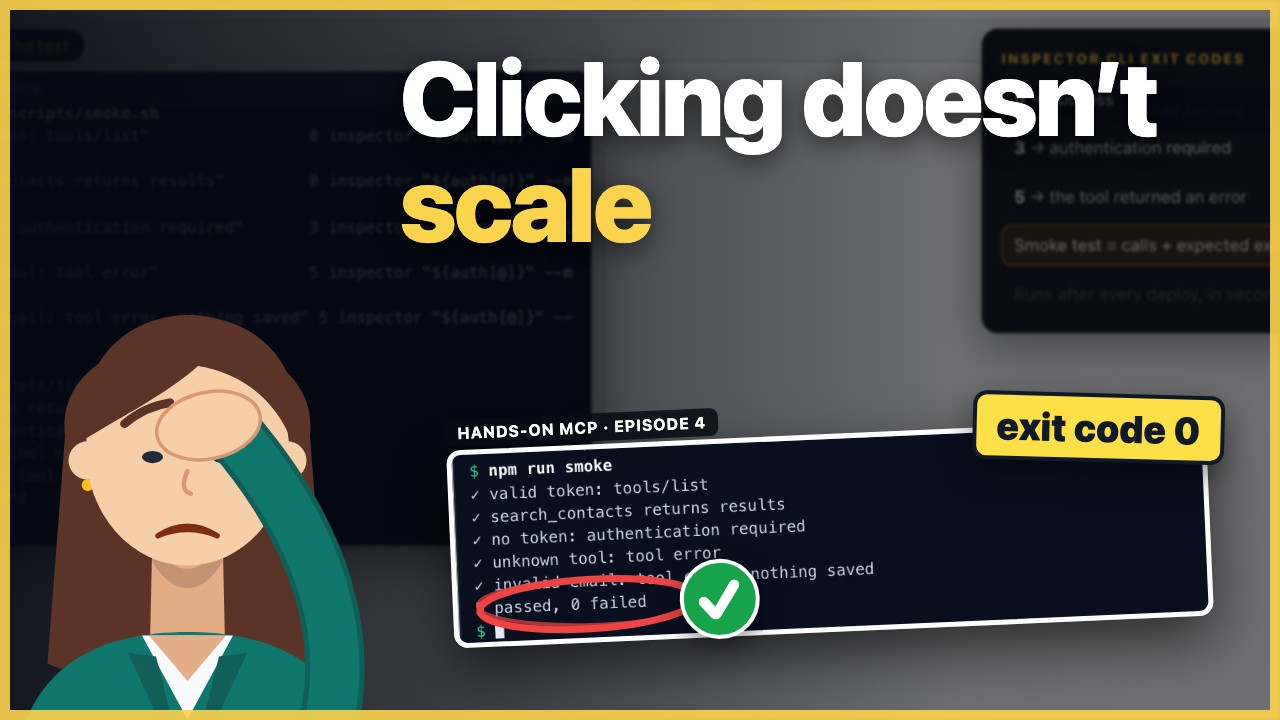
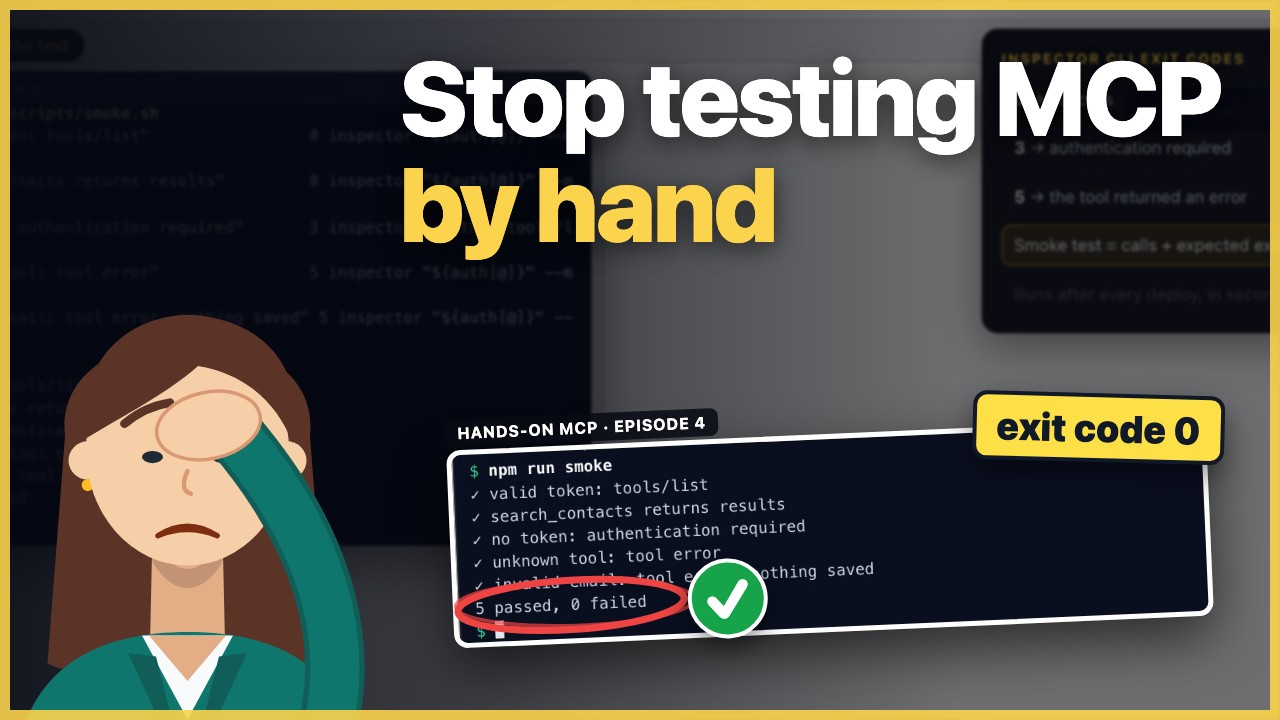
Thumbnails: drop the thumbs-up pose; new headline for hands-on 4 and mark for mcp-testing

Changed region(s): [[0.3125, 0.0611, 0.9688, 0.3667], [0.4688, 0.7639, 0.625, 0.8861], [0.3438, 0.7944, 0.4375, 0.8861]]

diff --git a/tools/explainer-video/character.js b/tools/explainer-video/character.js
@@ -146,14 +146,14 @@
     p.pop.style.transform = `scale(${(st.popScale || 1) * (0.9 + 0.1 * st.pop.show)})`;
   }
 
-  // Arm poses, drawn over the figure (thumbnails): the figure has no arms otherwise.
+  // Arm poses, drawn over the figure (thumbnails): the figure has no arms otherwise. No single raised finger or
+  // thumb: at thumbnail size a lone digit on a round fist reads as a middle finger.
   const POSES = {
     'hands-on-head': [ // pulling their hair
       { arm: 'M58,312 C26,250 30,188 66,150', hand: [62, 138, 18] },
       { arm: 'M202,312 C234,250 230,188 194,150', hand: [198, 138, 18] },
     ],
     facepalm: [{ arm: 'M206,312 C228,250 204,186 156,130', hand: [142, 126, 0], palm: true }],
-    'thumbs-up': [{ arm: 'M212,318 C236,292 230,262 210,252', hand: [204, 246, 18], thumb: true }],
     thinking: [{ arm: 'M204,316 C218,266 190,236 152,218', hand: [142, 212, 16] }],
   };
 
@@ -168,7 +168,6 @@
       const [cx, cy, r] = p.hand;
       if (p.palm) el('ellipse', { cx, cy, rx: 30, ry: 19, fill: L.skin, stroke: L.nose, 'stroke-width': 2, transform: `rotate(-12 ${cx} ${cy})` }, svg);
       else el('circle', { cx, cy, r, fill: L.skin, stroke: L.nose, 'stroke-width': 2 }, svg);
-      if (p.thumb) el('rect', { x: cx - 6, y: cy - 40, width: 12, height: 30, rx: 6, fill: L.skin, stroke: L.nose, 'stroke-width': 2 }, svg);
     }
     if (name === 'hands-on-head') { // a few strands pulled loose
       for (const d of ['M54,118 C40,96 48,80 36,64', 'M70,112 C64,90 74,78 66,60', 'M206,118 C220,96 212,80 224,64', 'M190,112 C196,90 186,78 194,60']) {

diff --git a/.claude/skills/explainer-video/SKILL.md b/.claude/skills/explainer-video/SKILL.md
@@ -70,12 +70,12 @@ There are two kinds of video:
      where the character is drawn on the canvas, or she appears twice.
    - **Emotion:** strong and readable, and different on every video in a series. Combine:
      - `mood`: frustrated, neutral, curious, happy, surprised, angry, disappointed, or suspicious.
-     - `pose`: hands-on-head (pulling hair), facepalm, thumbs-up, or thinking. There is no pointing pose: a lone
-       finger read as a middle finger.
+     - `pose`: hands-on-head (pulling hair), facepalm, or thinking. There are no pointing or thumbs-up poses: at
+       thumbnail size a lone finger or thumb read as a middle finger, twice.
      - `fx`: anger, question, exclaim, sparkles, or tear.
 
      Match the hook: angry with anger for "Did the AI make it up?", shocked with hands-on-head and exclaim for
-     "Will Claude delete it?", disappointed with facepalm for "Clicking doesn't scale".
+     "Will Claude delete it?", disappointed with facepalm for "Stop testing MCP by hand".
    - **Check** every thumbnail at full size and as a small tile, and the series side by side. Text must be
      readable at 300 px wide, and nothing may sit in the bottom-right corner, where YouTube draws the duration.
      Copy the thumbnail to `~/Desktop/` alongside the video.
